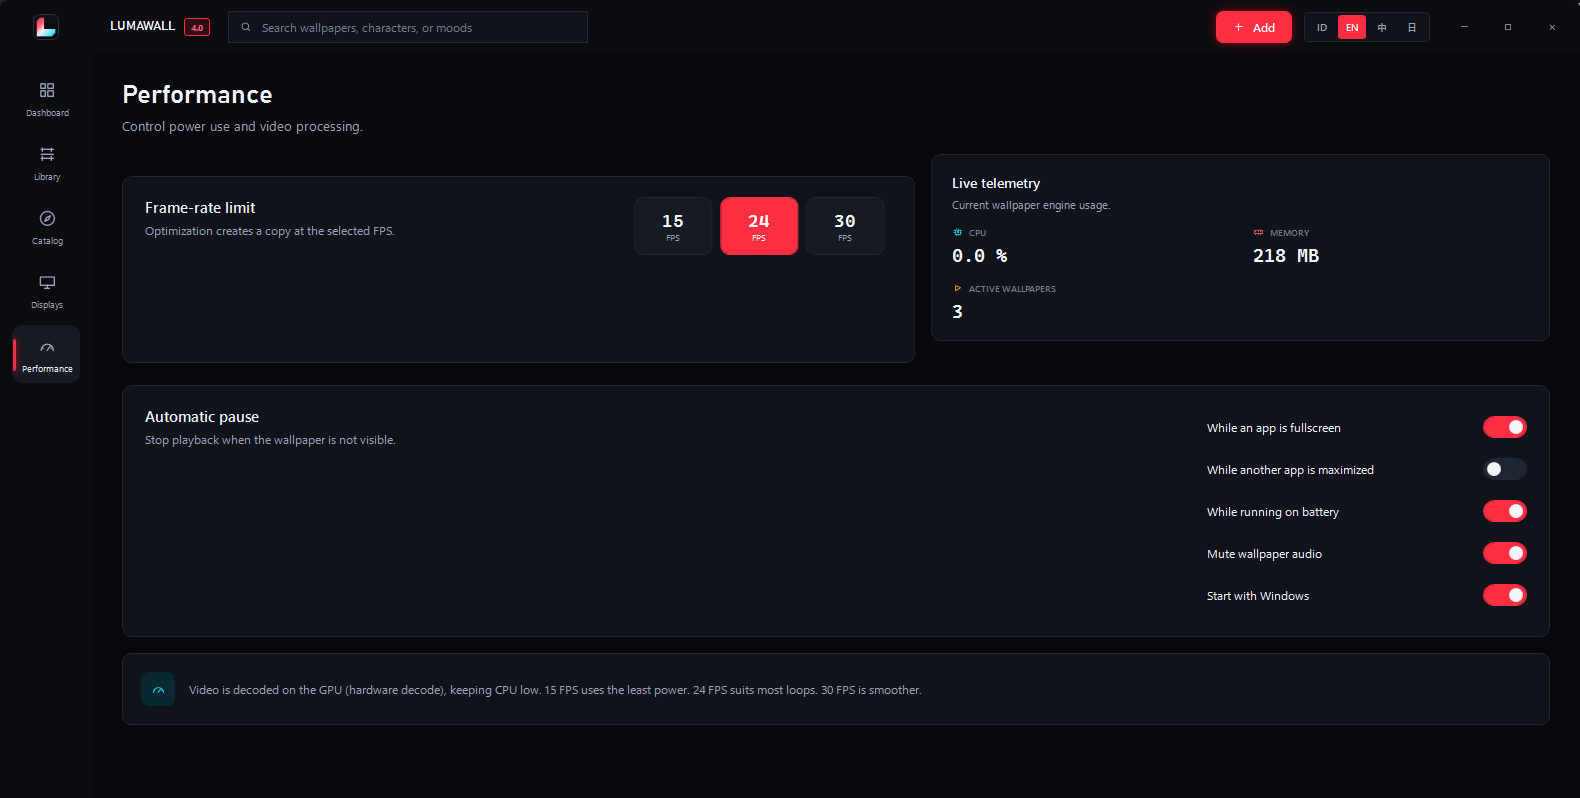
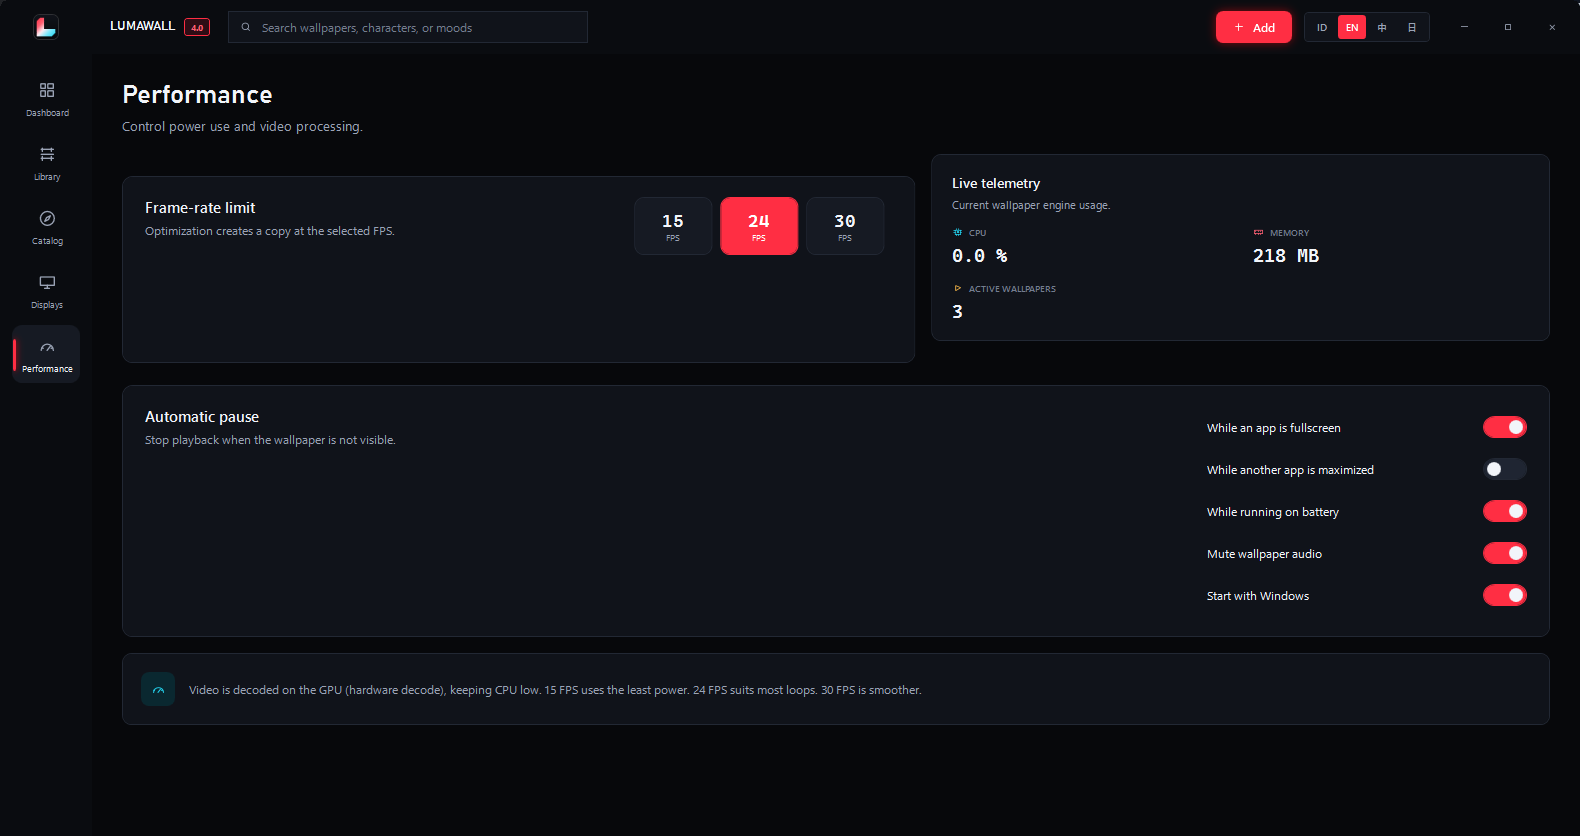
Make LumaWall's gallery cards uniform height without visible padding
Giving each frame its capture's own ratio removed the empty bars but made the
cards different heights: Displays came out 313px against Performance's 377px, so
the window inside it looked squashed next to its neighbours. Both problems come
from the same source, so they need one fix rather than two competing ones.

All four captures now share the ratio of the widest one (1.89) and the narrower
ones are padded at the bottom. The padding repeats the LAST ROW rather than
filling flat, because the bottom band is not uniform (sidebar RGB 10,12,16 beside
content RGB 7,8,11) and a flat fill would leave a seam down the sidebar's edge.
The captures already end in the app's own background, so the extension continues
the app instead of reading as an empty card.

Two defects in the raw downloads surfaced while doing this:

- ui-library carries a native scrollbar down its right edge (17px, track
  RGB(240,240,240)), unstyled against the app's dark theme. Trimmed; the close
  button is verified intact afterwards.
- The hover box on the minimize button had come back, because the earlier fix was
  applied to the shipped files and those were restored from the originals when the
  ratio work began. Now handled by scripts/build-lumawall-captures.py, which
  applies all three fixes in the right order so the next refresh cannot reintroduce
  any of them.

Verified 7/7: every frame matches its capture on all five product pages and the
[…]

diff --git a/src/lib/image-ratios.ts b/src/lib/image-ratios.ts
@@ -17,10 +17,10 @@ export const IMAGE_SIZES: Record<string, ImageSize> = {
   "/products/tile-akuntuntas-3.webp": { ratio: 1.6, width: 1200, height: 750 },
   "/products/tile-akuntuntas-4.webp": { ratio: 1.6, width: 1200, height: 750 },
   "/products/tile-lumawall-catalog.webp": { ratio: 1.89, width: 1580, height: 836 },
-  "/products/tile-lumawall-displays.webp": { ratio: 2.6871, width: 1580, height: 588 },
-  "/products/tile-lumawall-library.webp": { ratio: 1.9363, width: 1580, height: 816 },
+  "/products/tile-lumawall-displays.webp": { ratio: 1.89, width: 1580, height: 836 },
+  "/products/tile-lumawall-library.webp": { ratio: 1.891, width: 1562, height: 826 },
   "/products/tile-lumawall-overview.webp": { ratio: 1.6667, width: 1500, height: 900 },
-  "/products/tile-lumawall-performance.webp": { ratio: 1.9799, width: 1580, height: 798 },
+  "/products/tile-lumawall-performance.webp": { ratio: 1.89, width: 1580, height: 836 },
   "/products/tile-nexshop-berita.webp": { ratio: 1.6, width: 1200, height: 750 },
   "/products/tile-nexshop-marketplace.webp": { ratio: 1.6, width: 1200, height: 750 },
   "/products/tile-nexshop-reseller.webp": { ratio: 1.6, width: 1200, height: 750 },

diff --git a/scripts/build-lumawall-captures.py b/scripts/build-lumawall-captures.py
@@ -1,0 +1,158 @@
+#!/usr/bin/env python3
+"""
+Builds the shipped LumaWall captures from the raw downloads in .shots/luma-fresh.
+
+WHY THIS IS A SCRIPT AND NOT A ONE-OFF
+
+The raw screenshots come from lumawall.xinet.id and carry three defects that must
+all be fixed together, and re-fixed whenever the captures are refreshed:
+
+  1. A pale-blue HOVER BOX on the minimize button (44x54px, RGB(190,230,253)).
+     The cursor was left over the button when the shot was taken. Present on all
+     four screens.
+
+  2. A native SCROLLBAR down the right edge of `ui-library` (17px wide, track
+     RGB(240,240,240)). Unstyled next to the app's dark theme, so it reads as a
+     foreign element. Cropping it is safe because the app's own layout does not
+     reach into it.
+
+  3. DIFFERENT ASPECT RATIOS (1.89 to 2.69). Cards in the gallery sit in a grid
+     and must be the same height; a shorter capture makes its card shorter and the
+     window inside then looks squashed next to its neighbours.
+
+The fix for (3) is to pad, not crop: the captures already end in the app's own
+background (RGB 7,8,11 in the content area, RGB 10,12,16 in the sidebar), so
+extending the bottom continues the app instead of adding a visible bar. Padding
+from the LAST ROW rather than a flat fill keeps both shades, so no seam appears
+where the sidebar meets the content area.
+
+Cropping to a shared ratio was rejected: `Displays` would lose 40% of its width,
+taking the sidebar and the window controls with it.
+
+Order matters: crop the scrollbar FIRST, then pad, so the padding is computed
+against the final width.
+"""
+from PIL import Image, ImageDraw
+import numpy as np
+from pathlib import Path
+
+SRC = Path(r"C:\Users\ariel\dev\xinet-landing\.shots\luma-fresh")
+PUB = Path(r"C:\Users\ariel\dev\xinet-landing\public\products")
+
+# Shipped file name -> raw source. The hero is the Catalog screen.
+JOBS = [
+    ("ui-discover.png", "tile-lumawall-catalog.webp"),
+    ("ui-discover.png", "lumawall.webp"),
+    ("ui-library.png", "tile-lumawall-library.webp"),
+    ("ui-displays.png", "tile-lumawall-displays.webp"),
+    ("ui-performance.png", "tile-lumawall-performance.webp"),
+]
+
+# Target ratio: the widest capture (1580/836 = 1.8899). Every other capture is
+# narrower, so this is the ratio that needs the least padding while still fitting
+# all of them by width.
+TARGET_AR = 1580 / 836
+
+# The hover box, measured from the raw files: x1442..1485, y0..53.
+HOVER = (1442, 0, 1486, 54)
+# The dash inside it, measured from the raw file before any edit.
+DASH = (19, 26, 7, 1)          # x, y (local to HOVER), w, h
+GLYPH_RGB = (127, 134, 149)    # same as the untouched maximize glyph
+
+# Scrollbar: `ui-library` only. The track is a bright vertical strip at the right.
+SCROLLBAR_MIN_WIDTH = 10
+SCROLLBAR_MIN_BRIGHT_ROWS = 200
+
+
+def is_hover_blue(a):
+    """Pale blue of the hover box: blue channel well above red."""
+    return ((a[:, :, 2] > 235) & ((a[:, :, 2] - a[:, :, 0]) > 45)
+            & (a[:, :, 1] > 210) & (a[:, :, 0] < 215))
+
+
+def crop_scrollbar(im):
+    """
+    Trim a native scrollbar off the right edge, if one is present.
+
+    Detected by looking for a run of columns at the right that are bright over
+    most of their height, which is what a light scrollbar track looks like against
+    this dark UI. Returns the image unchanged when there is nothing to trim.
+    """
+    a = np.array(im.convert("RGB")).astype(int)
+    h, w = a.shape[:2]
+    bright = (a.max(axis=2) > 100).sum(axis=0)   # bright pixels per column
+
+    edge = w
+    while edge > 0 and bright[edge - 1] > h * 0.5:
+        edge -= 1
+    width = w - edge
+
+    if width < SCROLLBAR_MIN_WIDTH:
+        return im, 0
+
+    # Also drop the 1px separator that usually sits against the track.
+    return im.crop((0, 0, edge - 1, h)), width + 1
+
+
+def fix_hover_box(im):
+    """Remove the pale-blue hover box, keeping the dash glyph."""
+    a = np.array(im.convert("RGB")).astype(int)
+    x0, y0, x1, y1 = HOVER
+    sub = a[y0:y1, x0:x1]
+    m = is_hover_blue(sub)
+    if not m.any():
+        return im
+
+    # Fill per row from the title bar just to the LEFT of the box, so the bar's
+    # own gradient survives instead of a flat patch.
+    left = a[y0:y1, x0 - 6:x0 - 2].mean(axis=1)          # (54, 3)
+    fill = np.repeat(left[:, None, :], x1 - x0, axis=1)  # (54, 44, 3)
+    a[y0:y1, x0:x1] = np.where(m[:, :, None], fill, sub).astype(int)
+
+    # Restore the dash at its measured size and in a neighbour's colour: on the
+    # blue box the source dash is a blend, not a colour the app itself uses.
+    dx, dy, dw, dh = DASH
+    a[y0 + dy:y0 + dy + dh, x0 + dx:x0 + dx + dw] = GLYPH_RGB
+
+    return Image.fromarray(np.clip(a, 0, 255).astype(np.uint8))
+
+
+def pad_to_ratio(im, target_ar):
+    """
+    Extend the bottom so the image reaches `target_ar`.
+
+    Repeats the last row rather than filling with one colour: the bottom band is
+    not uniform (sidebar 10,12,16 beside content 7,8,11), so a flat fill would
+    leave a seam down the sidebar's edge.
+    """
+    w, h = im.size
+    need = int(round(w / target_ar))
+    if need <= h:
+        return im, 0
+    a = np.array(im.convert("RGB"))
+    pad = np.repeat(a[h - 1:h, :, :], need - h, axis=0)
+    return Image.fromarray(np.concatenate([a, pad], axis=0)), need - h
+
+
+def main():
+    print(f"target ratio {TARGET_AR:.4f} (the widest capture)\n")
+    for src_name, dst_name in JOBS:
+        im = Image.open(SRC / src_name)
+
+        im, trimmed = crop_scrollbar(im)
+        im = fix_hover_box(im)
+        im, padded = pad_to_ratio(im, TARGET_AR)
+
+        im.convert("RGB").save(PUB / dst_name, "WEBP", lossless=True,
+                               quality=100, method=6)
+        notes = []
+        if trimmed:
+            notes.append(f"trimmed {trimmed}px scrollbar")
+        if padded:
+            notes.append(f"padded {padded}px")
+        print(f"  {dst_name:34s} {im.size[0]}x{im.size[1]}  "
+              f"AR={im.size[0]/im.size[1]:.4f}  {', '.join(notes) or 'no change'}")
+
+
+if __name__ == "__main__":
+    main()
